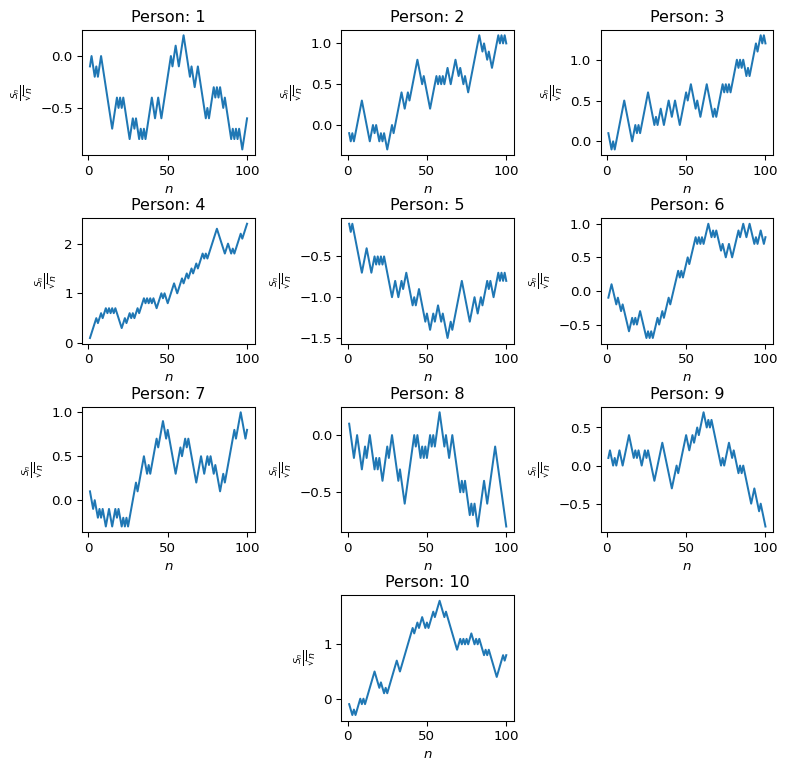
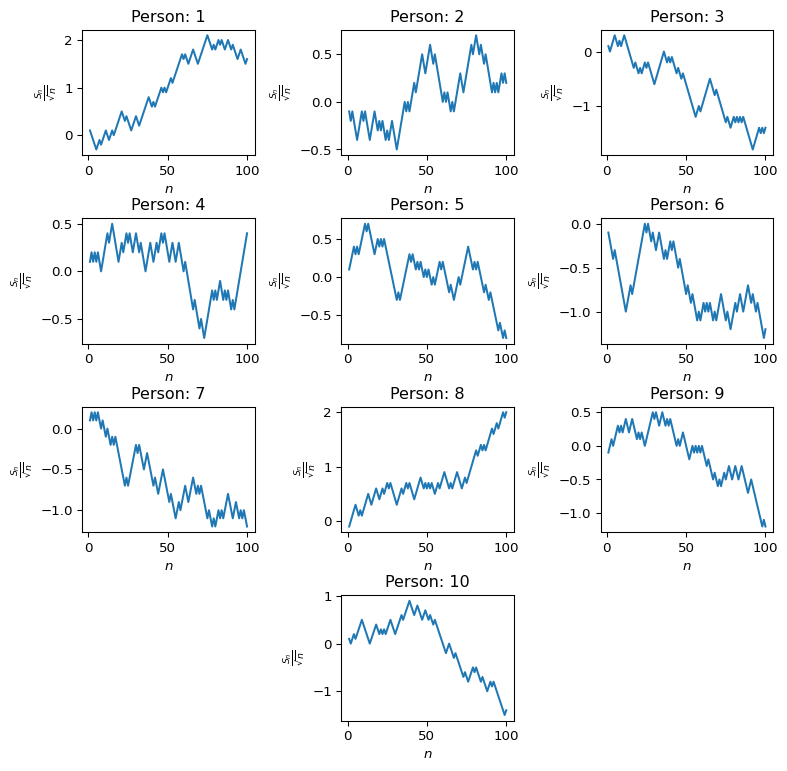
RandomWalk

diff --git a/Simulation_RandomWalk.md b/Simulation_RandomWalk.md
@@ -53,92 +53,92 @@ for j in range(10):
 
     random Walk of Person 1:
 
-    [-1  1 -1 -1  1 -1  1  1 -1 -1 -1 -1 -1 -1 -1  1  1  1 -1  1 -1  1 -1 -1
-     -1 -1  1  1 -1  1 -1 -1  1 -1  1 -1  1  1  1  1 -1 -1  1  1 -1 -1  1  1
-      1  1  1  1 -1  1  1 -1 -1  1  1  1 -1 -1 -1 -1  1 -1 -1  1  1 -1 -1 -1
-     -1 -1  1 -1  1  1  1 -1  1 -1  1 -1 -1  1 -1 -1 -1 -1  1 -1  1 -1  1 -1
-     -1  1  1  1]
+    [ 1 -1 -1 -1 -1  1  1 -1  1  1  1 -1 -1  1  1 -1  1  1  1  1  1 -1 -1  1
+     -1 -1 -1  1  1  1 -1 -1  1  1  1  1  1  1 -1 -1  1 -1  1  1  1  1 -1  1
+     -1  1  1  1 -1  1  1  1  1  1  1 -1  1 -1 -1  1  1  1 -1 -1 -1  1  1  1
+      1  1  1 -1 -1 -1  1 -1  1  1 -1  1 -1 -1  1  1 -1 -1  1 -1 -1 -1  1  1
+     -1 -1 -1  1]
 
 
     random Walk of Person 2:
 
-    [-1 -1  1 -1  1  1  1  1  1 -1 -1 -1 -1 -1  1  1 -1  1 -1 -1  1 -1  1 -1
-     -1  1  1  1 -1  1  1  1  1  1 -1 -1  1  1 -1  1  1  1  1  1 -1 -1 -1  1
-     -1 -1 -1 -1  1  1  1  1 -1  1 -1  1 -1  1  1 -1 -1  1  1  1 -1 -1  1 -1
-     -1  1 -1 -1  1  1  1  1  1  1  1 -1 -1  1 -1 -1  1 -1 -1  1  1  1  1 -1
+    [-1 -1  1 -1 -1 -1  1  1  1 -1  1 -1 -1 -1  1  1  1 -1 -1  1 -1  1 -1 -1
+      1 -1  1  1 -1 -1 -1  1  1  1  1  1 -1  1 -1  1  1  1 -1  1  1  1  1 -1
+     -1  1  1  1 -1 -1  1 -1 -1 -1 -1 -1  1 -1  1 -1 -1  1 -1  1  1  1  1 -1
+     -1  1  1  1  1  1 -1  1  1 -1 -1  1 -1 -1  1 -1 -1 -1 -1  1 -1  1 -1  1
       1 -1  1 -1]
 
 
     random Walk of Person 3:
 
-    [ 1 -1 -1  1 -1  1  1  1  1  1  1 -1 -1 -1 -1 -1  1  1 -1  1 -1  1  1  1
-      1  1 -1 -1 -1 -1  1 -1  1  1 -1 -1  1  1  1 -1 -1  1  1 -1 -1 -1  1  1
-      1  1 -1  1  1 -1 -1 -1  1 -1 -1  1  1  1  1 -1 -1 -1 -1  1 -1  1  1  1
-      1 -1  1 -1  1 -1  1  1  1  1 -1  1 -1  1 -1 -1  1 -1  1  1  1  1 -1  1
-      1 -1  1 -1]
+    [ 1 -1  1  1  1 -1 -1  1 -1  1  1 -1 -1 -1 -1 -1 -1  1 -1 -1  1 -1  1  1
+     -1  1 -1 -1 -1 -1  1  1  1  1  1  1 -1 -1  1 -1  1 -1 -1 -1  1 -1 -1  1
+     -1 -1 -1 -1 -1 -1 -1 -1  1  1 -1  1  1  1  1  1  1 -1 -1 -1  1 -1 -1 -1
+     -1 -1 -1  1 -1 -1  1  1 -1  1 -1  1 -1  1 -1 -1 -1 -1 -1 -1  1  1  1  1
+     -1  1 -1  1]
 
 
     random Walk of Person 4:
 
-    [ 1  1  1  1  1 -1  1  1 -1  1  1 -1  1 -1  1 -1  1 -1 -1 -1 -1  1  1 -1
-      1  1 -1  1 -1  1  1 -1  1  1  1 -1  1 -1  1 -1  1 -1 -1  1  1  1 -1  1
-     -1 -1  1  1  1  1 -1 -1  1  1  1 -1  1  1 -1  1  1 -1  1  1 -1  1  1  1
-     -1  1 -1  1  1  1  1  1  1 -1 -1 -1 -1 -1  1  1 -1 -1  1 -1  1  1  1  1
-     -1  1  1  1]
+    [ 1  1 -1  1 -1  1 -1 -1  1  1  1  1 -1  1  1 -1 -1 -1 -1  1  1 -1  1  1
+     -1  1 -1 -1  1  1 -1 -1  1 -1 -1 -1  1  1  1 -1 -1  1  1 -1  1  1 -1  1
+     -1 -1 -1  1  1 -1 -1  1  1 -1 -1 -1  1 -1 -1 -1 -1 -1  1 -1 -1 -1  1 -1
+     -1  1  1  1  1  1 -1  1 -1  1  1 -1 -1  1 -1  1 -1 -1  1 -1  1  1  1  1
+      1  1  1  1]
 
 
     random Walk of Person 5:
 
-    [-1 -1  1 -1 -1 -1 -1 -1 -1  1  1  1 -1 -1 -1  1  1 -1  1 -1  1 -1  1 -1
-     -1 -1 -1 -1  1  1 -1 -1  1  1 -1  1  1 -1 -1 -1 -1  1 -1  1  1 -1 -1 -1
-     -1  1 -1 -1  1  1 -1  1  1 -1 -1  1 -1 -1 -1  1  1 -1  1  1  1  1  1  1
-     -1 -1 -1 -1 -1  1  1  1 -1 -1  1  1 -1  1  1  1 -1  1 -1 -1  1  1  1 -1
-      1 -1  1 -1]
+    [ 1  1  1  1 -1  1 -1  1  1  1  1 -1  1 -1 -1 -1 -1  1  1 -1  1 -1  1 -1
+     -1 -1 -1 -1 -1 -1 -1  1 -1  1  1  1  1  1  1 -1  1 -1 -1  1 -1  1 -1 -1
+      1 -1  1 -1 -1  1 -1  1  1  1 -1  1 -1 -1 -1 -1  1 -1 -1  1  1  1 -1  1
+      1  1  1  1 -1 -1 -1  1 -1  1 -1 -1 -1 -1  1 -1 -1  1 -1 -1 -1 -1 -1  1
+     -1 -1  1 -1]
 
 
     random Walk of Person 6:
 
-    [-1  1  1 -1 -1 -1  1 -1 -1  1 -1 -1 -1 -1  1  1 -1  1 -1  1  1 -1 -1 -1
-     -1  1 -1  1 -1  1  1  1 -1  1  1 -1  1  1  1 -1  1  1  1  1  1 -1  1 -1
-      1  1  1 -1  1  1  1  1 -1  1 -1  1 -1  1  1  1 -1 -1  1 -1  1 -1 -1 -1
-      1 -1 -1  1  1 -1 -1  1  1  1  1 -1  1  1 -1 -1  1  1 -1 -1 -1  1 -1  1
-      1 -1 -1  1]
+    [-1 -1 -1 -1  1 -1 -1 -1 -1 -1 -1 -1  1  1  1 -1  1  1  1  1  1  1  1  1
+     -1  1 -1 -1  1 -1 -1  1  1 -1 -1 -1  1 -1  1  1 -1  1 -1 -1 -1  1 -1 -1
+     -1 -1  1 -1 -1  1 -1 -1 -1  1 -1  1  1 -1  1 -1  1 -1 -1  1 -1  1  1  1
+     -1 -1 -1  1 -1 -1  1  1  1 -1  1  1 -1 -1  1  1  1 -1 -1  1 -1 -1  1 -1
+     -1 -1 -1  1]
 
 
     random Walk of Person 7:
 
-    [ 1 -1 -1  1 -1 -1  1 -1  1 -1 -1  1  1 -1 -1  1  1 -1  1 -1 -1  1 -1  1
-     -1  1  1  1  1  1 -1  1  1  1  1 -1 -1  1 -1  1  1  1  1 -1  1  1  1 -1
-     -1  1 -1 -1 -1 -1 -1  1  1  1 -1  1  1 -1  1 -1 -1 -1 -1 -1  1  1  1 -1
-     -1  1  1 -1  1 -1 -1  1 -1 -1 -1  1  1 -1  1  1  1  1  1  1 -1  1  1  1
-     -1 -1 -1  1]
+    [ 1  1 -1  1 -1  1 -1 -1  1 -1 -1  1 -1 -1  1 -1  1 -1 -1 -1 -1 -1 -1  1
+     -1  1  1  1  1  1 -1  1 -1 -1 -1  1  1 -1 -1 -1 -1  1 -1 -1  1  1  1 -1
+     -1 -1 -1  1 -1 -1 -1  1  1 -1  1  1  1 -1 -1  1  1  1 -1 -1  1 -1  1 -1
+     -1 -1 -1  1 -1 -1  1 -1  1  1 -1  1 -1  1  1  1 -1 -1 -1  1  1 -1 -1  1
+     -1  1 -1 -1]
 
 
     random Walk of Person 8:
 
-    [ 1 -1 -1 -1  1  1 -1 -1 -1  1  1 -1  1  1 -1 -1 -1  1 -1  1 -1 -1  1  1
-      1 -1  1  1 -1 -1 -1 -1  1 -1 -1 -1  1  1  1  1  1  1 -1  1 -1 -1  1 -1
-      1 -1  1  1 -1  1 -1  1  1  1 -1 -1 -1  1 -1 -1  1  1 -1 -1 -1 -1 -1  1
-     -1  1 -1 -1 -1  1 -1  1 -1 -1  1  1  1  1 -1 -1  1  1  1  1  1 -1 -1 -1
-     -1 -1 -1 -1]
+    [-1  1  1  1  1 -1 -1  1 -1  1  1  1  1 -1 -1  1  1  1 -1 -1  1  1 -1  1
+      1 -1  1 -1 -1 -1 -1  1  1  1 -1  1  1 -1  1 -1 -1 -1  1  1  1  1 -1 -1
+      1 -1  1 -1  1 -1 -1  1  1 -1  1  1  1 -1 -1 -1  1 -1  1  1  1 -1 -1 -1
+      1  1 -1  1  1  1  1  1  1 -1  1  1 -1  1 -1  1  1  1  1 -1  1  1 -1  1
+      1  1 -1  1]
 
 
     random Walk of Person 9:
 
-    [ 1  1 -1 -1  1 -1  1  1 -1 -1  1  1  1  1 -1 -1 -1  1 -1  1 -1 -1  1  1
-     -1  1 -1 -1 -1 -1  1  1  1  1  1 -1 -1 -1 -1 -1 -1  1  1  1 -1  1  1  1
-      1  1 -1 -1  1  1 -1  1  1 -1  1  1  1 -1 -1  1 -1  1 -1 -1 -1 -1 -1 -1
-      1 -1  1  1  1 -1 -1  1 -1 -1 -1  1 -1  1 -1 -1 -1 -1 -1  1  1 -1 -1 -1
-      1 -1 -1 -1]
+    [-1  1  1 -1  1  1  1 -1  1 -1  1  1 -1 -1  1  1 -1 -1 -1  1 -1  1 -1 -1
+      1  1  1  1  1 -1  1 -1 -1  1  1 -1 -1  1 -1  1 -1 -1 -1 -1  1 -1  1  1
+     -1 -1 -1 -1  1  1 -1  1 -1  1 -1  1 -1 -1 -1  1 -1 -1 -1  1 -1 -1  1 -1
+      1  1 -1  1  1 -1 -1  1  1 -1 -1  1  1 -1 -1 -1 -1  1  1 -1 -1 -1 -1 -1
+     -1 -1  1 -1]
 
 
     random Walk of Person 10:
 
-    [-1 -1 -1  1 -1  1  1  1 -1  1 -1  1  1  1  1  1  1 -1 -1 -1  1 -1 -1  1
-     -1  1  1  1  1  1  1 -1 -1  1  1  1  1  1  1  1  1 -1  1  1 -1  1  1 -1
-     -1  1 -1  1  1  1 -1  1  1  1 -1 -1 -1  1 -1 -1 -1 -1 -1 -1 -1  1  1 -1
-      1 -1  1 -1  1  1 -1 -1  1 -1  1 -1 -1 -1  1 -1  1 -1 -1 -1 -1 -1  1  1
-      1  1 -1  1]
+    [ 1 -1  1  1 -1  1  1  1  1 -1 -1 -1 -1 -1  1  1  1  1 -1 -1  1 -1  1 -1
+      1  1  1 -1 -1 -1  1  1  1  1 -1  1  1  1  1 -1 -1 -1  1  1 -1 -1 -1  1
+      1 -1 -1  1 -1 -1  1 -1 -1 -1 -1 -1 -1 -1  1  1 -1 -1 -1  1 -1 -1 -1 -1
+     -1  1 -1 -1  1  1  1 -1  1 -1 -1 -1  1 -1 -1 -1  1  1 -1  1 -1 -1 -1 -1
+     -1 -1 -1  1]
 
 ## section (b):
 
@@ -180,7 +180,8 @@ ax[3, 2].set_yticks([])
 plt.show()
 ```
 
-![](Simulation_RandomWalk_files/figure-commonmark/cell-3-output-1.png)
+![scale Sn for Random Walk by
+Person](Simulation_RandomWalk_files/figure-commonmark/cell-3-output-1.png)
 
 ### Generate Bell Shaped Graph
 
@@ -246,4 +247,5 @@ ax[3, 2].set_yticks([])
 plt.show()
 ```
 
-![](Simulation_RandomWalk_files/figure-commonmark/cell-4-output-1.png)
+![Bell-Shaped Graph for Simulation Sn by
+Persons](Simulation_RandomWalk_files/figure-commonmark/cell-4-output-1.png)
